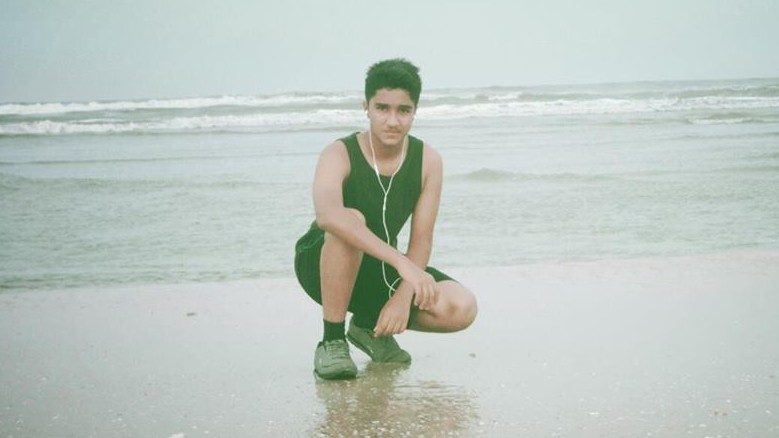
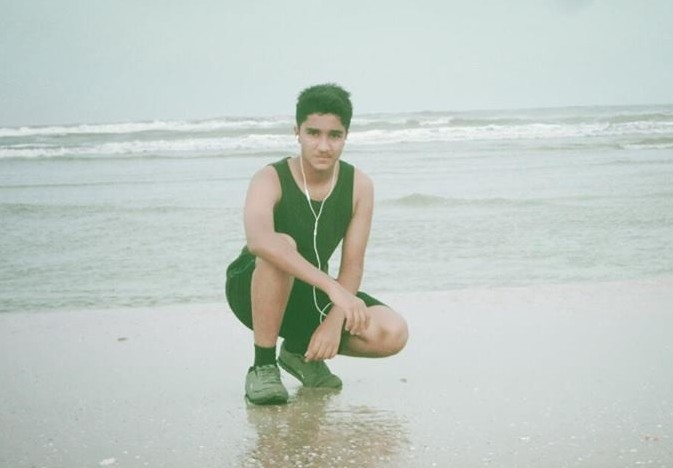
Add files via upload

diff --git a/Web Portfolio/portfolio1.html b/Web Portfolio/portfolio1.html
@@ -1,0 +1,259 @@
+<!DOCTYPE html>
+<html>
+<head>
+
+    <meta charset="utf-8">
+    <meta name="viewport" content="width=device-width, initial-scale=1, shrink-to-fit=no">
+
+    <title>Rishit Patel</title>
+
+    <!-- Bootstrap core CSS -->
+    <link href="vendor/bootstrap/css/bootstrap.min.css" rel="stylesheet">
+
+    <!-- Custom styles for this template -->
+    <link href="css/modern-business.css" rel="stylesheet">
+    <link rel="stylesheet" href="https://maxcdn.bootstrapcdn.com/bootstrap/4.1.3/css/bootstrap.min.css">
+	<link rel="stylesheet" href="css/style.css">
+	<script src="https://ajax.googleapis.com/ajax/libs/jquery/3.3.1/jquery.min.js"></script>
+  <script src="https://cdnjs.cloudflare.com/ajax/libs/popper.js/1.14.3/umd/popper.min.js"></script>
+  <script src="https://maxcdn.bootstrapcdn.com/bootstrap/4.1.3/js/bootstrap.min.js"></script>
+ <style>
+  /* Make the image fully responsive */
+  .carousel-inner img {
+      width: 100%;
+      height: 900px;
+  }
+  </style>
+  </head>
+
+  <body>
+
+    <!-- Navigation -->
+    <nav class="navbar fixed-top navbar-expand-lg navbar-dark fixed-top" style="background: #190474 ">
+      <div class="container" style="height: 100px">
+        <a class="navbar-brand" href="index.html"><img src="img/logo.jpg" width="300px"></a>
+        <button class="navbar-toggler navbar-toggler-right" type="button" data-toggle="collapse" data-target="#navbarResponsive" aria-controls="navbarResponsive" aria-expanded="false" aria-label="Toggle navigation">
+          <span class="navbar-toggler-icon"></span>
+        </button>
+        <div class="collapse navbar-collapse" id="navbarResponsive">
+          <ul class="navbar-nav ml-auto">
+            <li class="nav-item">
+              <a class="nav-link" href="#About" style="font-size: 20px "><b>About Me</b></a>
+            </li>
+            <li class="nav-item">
+              <a class="nav-link" href="#Projects" style="font-size: 20px"><b>Projects</b></a>
+            </li>
+            <li class="nav-item">
+              <a class="nav-link" href="#Skill" style="font-size: 20px"><b>Skill Set</b></a>
+            </li>
+            <li class="nav-item">
+              <a class="nav-link" href="#Contact" style="font-size: 20px"><b>Contact Me</b></a>
+            </li>  
+          </ul>
+        </div>
+      </div>
+    </nav>
+    <div id="demo" class="carousel slide" data-ride="carousel">
+
+  <!-- Indicators -->
+  <ul class="carousel-indicators">
+    <li data-target="#demo" data-slide-to="0" class="active"></li>
+    <li data-target="#demo" data-slide-to="1"></li>
+    <li data-target="#demo" data-slide-to="2"></li>
+    <li data-target="#demo" data-slide-to="3"></li>
+  </ul>
+  
+  <!-- The slideshow -->
+  <div class="carousel-inner" >
+    <div class="carousel-item active">
+      <img src="img/rishit.jpg" alt="Los Angeles" width="1100" height="500">
+       <div class="carousel-caption">
+        <h3><b>This Is Me</b></h3>
+        <p><b>Web Developer-Coder</b></p>
+      </div>   
+    </div>
+    <div class="carousel-item">
+      <img src="img/sherlock.jpg" alt="Chicago" width="1100" height="500">
+       <div class="carousel-caption">
+        <h3>Favourite Show</h3>
+        <p>Sherlock</p>
+      </div>   
+    </div>
+    <div class="carousel-item">
+      <img src="img/interstella.jpg" alt="New York" width="1100" height="500">
+       <div class="carousel-caption">
+        <h3>Favourite Movie</h3>
+        <p>Interstellar</p>
+      </div>   
+    </div>
+    <div class="carousel-item">
+      <img src="img/tt.jpg" alt="Chicago" width="1100" height="500">
+       <div class="carousel-caption">
+        <h3>Favourite Sport</h3>
+        <p>Table Tennis</p>
+      </div>   
+    </div>
+  </div>
+  
+  <!-- Left and right controls -->
+  <a class="carousel-control-prev" href="#demo" data-slide="prev">
+    <span class="carousel-control-prev-icon"></span>
+  </a>
+  <a class="carousel-control-next" href="#demo" data-slide="next">
+    <span class="carousel-control-next-icon"></span>
+  </a>
+</div>
+   
+ <div class="container-fluid" id="About">
+ 
+  <div class="row">
+    <div class="col-lg-12" style="background-color:SlateBlue;height:450px ">
+    	
+    	<h1 style="text-align: center; padding-top:70px;color:white " ><b>About Me</b></h1>
+    	<p style="text-align:center;color:white;padding-top: 70px;font-size:30px;">Currently a CS student in BITS Pilani,Goa Campus.</p>
+    	<p style="text-align:center;color:white;font-size:30px;">Learning the art of web development.</p>
+    	
+    	<p style="text-align:center;  color:white;font-size:30px;">Love to code,watch movies,sing,play TT.</p>
+    	
+    </div>
+    
+  </div>
+</div>
+<div class="container-fluid" id="Skill">
+ 
+  <div class="row">
+    <div class="col-lg-12" style="background-color:DodgerBlue;height:500px ">
+    	
+    	<h1 style="text-align: center; padding-top:60px;color:white " ><b>Skill Set</b></h1>
+    	<br>
+    	 <!-- Blue -->
+<div class="progress " style="height: 50px;">
+  <div class="progress-bar bg-success" style="width:60%;height:50px "> HTML-60%</div>
+</div><br>
+<div class="progress " style="height: 50px">
+  <div class="progress-bar bg-warning" style="width:60%;height:50px "> CSS-60%</div>
+</div><br>
+<div class="progress" style="height: 50px">
+  <div class="progress-bar  bg-danger" style="width:70%;height:50px ">Java-70%</div>
+</div><br>
+<div class="progress " style="height: 50px">
+  <div class="progress-bar bg-secondary" style="width:80%;height:50px "> C-80%</div>
+</div><br>
+
+
+    </div>
+    
+  </div>
+</div>
+<div class="container-fluid" id="Projects">
+ 
+  <div class="row">
+    <div class="col-lg-12" style="background-color:SlateBlue;height:400px ">
+    	
+    	<h1 style="text-align: center; padding-top:70px;color:white " ><b>Projects</b></h1>
+    	<p style="text-align:center;color:white;padding-top: 70px;font-size:30px;">To be uploaded soon.</p>
+    	
+    	
+    </div>
+    
+  </div>
+</div>
+<div class="container-fluid" id="Contact">
+ 
+  <div class="row">
+    <div class="col-lg-12" style="background-color:DodgerBlue;height:300px ">
+    	
+    	<h1 style="text-align: center; padding-top:70px;color:white " ><b>Contact Me</b></h1>
+    	<div class="modal fade" id="modalContactForm" tabindex="-1" role="dialog" aria-labelledby="myModalLabel" aria-hidden="true">
+    <div class="modal-dialog" role="document">
+        <div class="modal-content">
+            <div class="modal-header text-center">
+                <h4 class="modal-title w-100 font-weight-bold">Write to me</h4>
+                <button type="button" class="close" data-dismiss="modal" aria-label="Close">
+                    <span aria-hidden="true">&times;</span>
+                </button>
+            </div>
+            <div class="modal-body mx-3">
+                <div class="md-form mb-5">
+                    <i class="fa fa-user prefix grey-text"></i>
+                    <input type="text" id="form34" class="form-control validate">
+                    <label data-error="wrong" data-success="right" for="form34">Your name</label>
+                </div>
+
+                <div class="md-form mb-5">
+                    <i class="fa fa-envelope prefix grey-text"></i>
+                    <input type="email" id="form29" class="form-control validate">
+                    <label data-error="wrong" data-success="right" for="form29">Your email</label>
+                </div>
+
+                <div class="md-form mb-5">
+                    <i class="fa fa-tag prefix grey-text"></i>
+                    <input type="text" id="form32" class="form-control validate">
+                    <label data-error="wrong" data-success="right" for="form32">Subject</label>
+                </div>
+
+                <div class="md-form">
+                    <i class="fa fa-pencil prefix grey-text"></i>
+                    <textarea type="text" id="form8" class="md-textarea form-control" rows="4"></textarea>
+                    <label data-error="wrong" data-success="right" for="form8">Your message</label>
+                </div>
+
+            </div>
+            <div class="modal-footer d-flex justify-content-center">
+                <button class="btn btn-unique">Send <i class="fa fa-paper-plane-o ml-1"></i></button>
+            </div>
+        </div>
+    </div>
+</div>
+<br>
+<div class="text-center " >
+    <button href="" class="btn btn-default btn-rounded mb-4 bg-primary" data-toggle="modal" data-target="#modalContactForm" style="color: white;">Click Here</button>
+</div>
+   
+  
+ 
+
+
+    	
+    </div>
+    
+  </div>
+</div>
+
+  <div class="container-fluid">
+ 
+  <div class="row">
+    <div class="col-lg-12" style="background: #190474;height:150px ">
+    	
+    <footer class="text-center">
+        <div class="footer-above">
+            <div class="container">
+                <div class="row">
+                    <div class="footer-col col-md-4">
+                        <h3 style=" padding-top:20px;color:white" >Address</h3>
+                        <p style="color: white">33/6,GNFC TOWNSHIP
+                            <br>Narmadanagar, Bharuch, Gujarat- 392015</p>
+                    </div>
+                    <div class="footer-col col-md-4">
+                        <h3 style=" padding-top:20px;color:white" >Email ID</h3>
+                        
+                        <p style="color: white">msvrpatel.7@gmail.com</p>
+                    </div>
+                    <div class="footer-col col-md-4">
+                        <h3 style=" padding-top:20px;color:white" >Mobile No</h3>
+                        
+                        <p style="color: white">+91 7226017541</p>
+                    </div>
+                </div>
+            </div>
+</div>
+               
+    	</footer>
+    </div>
+    
+  </div>
+</div>
+
+         </body>  
+          
+</html>
